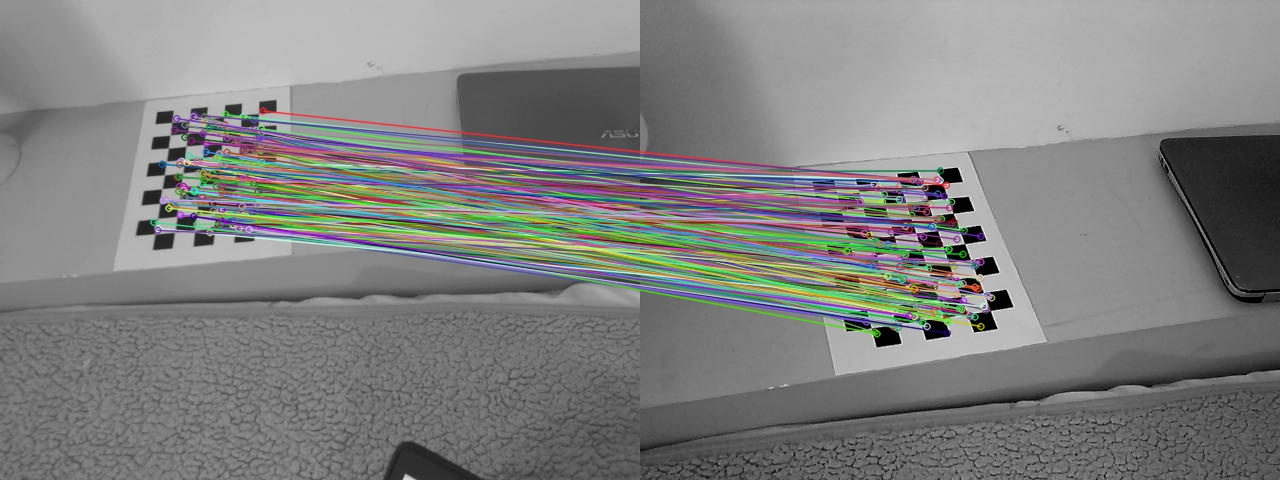
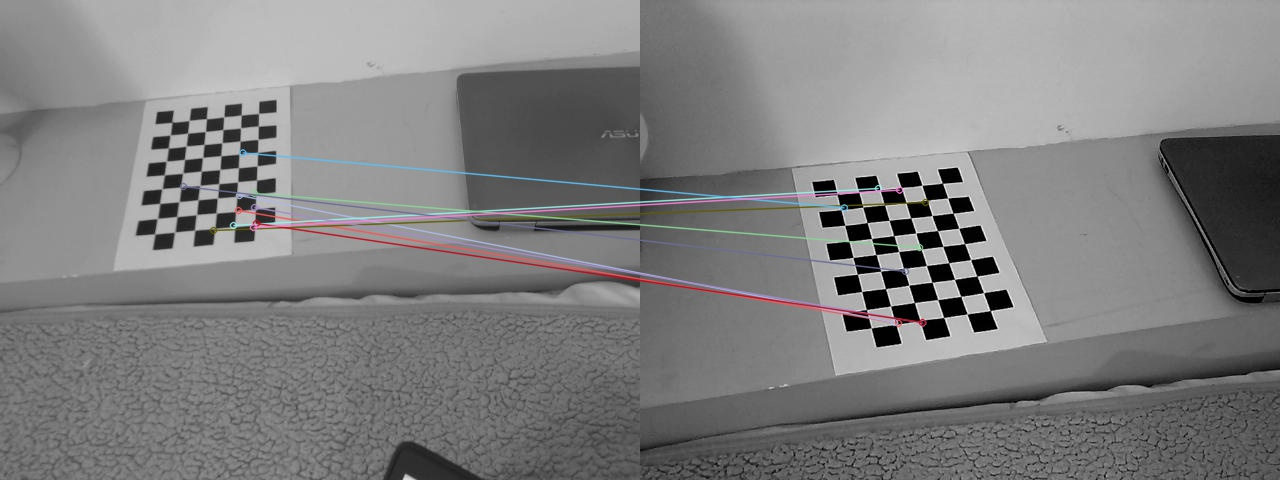
new algo fo Feature Matching ( file called FM )

Changed region(s): [[0.125, 0.2188, 0.7812, 0.7188]]

diff --git a/FM.py b/FM.py
@@ -1,0 +1,62 @@
+#!/usr/bin/python3
+# 2017.10.06 22:36:44 CST
+# 2017.10.06 23:18:25 CST
+
+"""
+Environment:
+    OpenCV 3.3  + Python 3.5
+
+Aims:
+(1) Detect sift keypoints and compute descriptors.
+(2) Use flannmatcher to match descriptors.
+(3) Do ratio test and output the matched pairs coordinates, draw some pairs in purple .
+(4) Draw matched pairs in blue color, singlepoints in red.
+"""
+import numpy as np
+import cv2
+from matplotlib import pyplot as plt
+
+
+## Create SIFT object
+sift = cv2.xfeatures2d.SIFT_create()
+
+## Create flann matcher
+FLANN_INDEX_KDTREE = 1  # bug: flann enums are missing
+flann_params = dict(algorithm = FLANN_INDEX_KDTREE, trees = 5)
+#matcher = cv2.FlannBasedMatcher_create()
+matcher = cv2.FlannBasedMatcher(flann_params, {})
+
+## Detect and compute
+img1 = cv2.imread('0cam1.jpeg')
+gray1 = cv2.cvtColor(img1, cv2.COLOR_BGR2GRAY)
+kpts1, descs1 = sift.detectAndCompute(gray1,None)
+
+## As up
+img2 = cv2.imread('0cam2.jpeg')
+gray2 = cv2.cvtColor(img2, cv2.COLOR_BGR2GRAY)
+kpts2, descs2 = sift.detectAndCompute(gray2,None)
+
+## Ratio test
+matches = matcher.knnMatch(descs1, descs2, 2)
+matchesMask = [[0,0] for i in range(len(matches))]
+for i, (m1,m2) in enumerate(matches):
+    if m1.distance < 0.7 * m2.distance:
+        matchesMask[i] = [1,0]
+        ## Notice: How to get the index
+        pt1 = kpts1[m1.queryIdx].pt
+        pt2 = kpts2[m1.trainIdx].pt
+        print(i, pt1,pt2 )
+        if i % 5 ==0:
+            ## Draw pairs in purple, to make sure the result is ok
+            cv2.circle(img1, (int(pt1[0]),int(pt1[1])), 5, (255,0,255), -1)
+            cv2.circle(img2, (int(pt2[0]),int(pt2[1])), 5, (255,0,255), -1)
+
+
+## Draw match in blue, error in red
+draw_params = dict(matchColor = (255, 0,0),
+                   singlePointColor = (0,0,255),
+                   matchesMask = matchesMask,
+                   flags = 0)
+
+res = cv2.drawMatchesKnn(img1,kpts1,img2,kpts2,matches,None,**draw_params)
+cv2.imshow("Result", res);cv2.waitKey();cv2.destroyAllWindows()

diff --git a/featureMatching.py b/featureMatching.py
@@ -24,7 +24,7 @@ bf = cv2.BFMatcher(cv2.NORM_HAMMING, crossCheck=True)
 matches = bf.match(des1,des2)
 
 # Sort them in the order of their distance.
-matches = sorted(matches, key = lambda x:x.distance)
+matches = sorted(matches, key = lambda x:x.distance, reverse=True)
 l = []
 r = []
 #l.append(kp1[matches[0].trainIdx].pt)
@@ -39,6 +39,6 @@ print(np.transpose(l).shape)
 #print(l)
 
 # Draw first 10 matches.
-img3 = cv2.drawMatches(img1,kp1,img2,kp2,matches ,None, flags=2)
+img3 = cv2.drawMatches(img1,kp1,img2,kp2,matches[:5] ,None, flags=2)
 cv2.imwrite('sift_featureMatched.jpg',img3)
 plt.imshow(img3),plt.show()

diff --git a/BFmatcher.py b/BFmatcher.py
@@ -1,0 +1,17 @@
+import numpy as np
+import cv2
+import matplotlib.pyplot as plt
+
+img1 = cv2.imread('0cam1.jpeg',0)          # queryImage
+img2 = cv2.imread('0cam2.jpeg',0)
+
+orb = cv2.ORB_create()
+kp1, des1 = orb.detectAndCompute(img1,None)
+kp2, des2 = orb.detectAndCompute(img2,None)
+bf = cv2.BFMatcher(cv2.NORM_HAMMING, crossCheck=True)
+matches = bf.match(des1,des2)
+matches = sorted(matches, key = lambda x:x.distance)
+img3 = cv2.drawMatches(img1,kp1,img2,kp2,matches[:10],None, flags=2)
+plt.imshow(img3)
+cv2.imwrite('sift_featureMatched.jpg',img3)
+plt.show()

diff --git a/Project.py b/Project.py
@@ -112,7 +112,7 @@ def GetMatchedFeatures(img1,img2):
     matches = sorted(matches, key = lambda x:x.distance)
     
     # Draw first 10 matches.
-    #img3 = cv2.drawMatches(img1,kp1,img2,kp2,matches ,None, flags=2)
+    img3 = cv2.drawMatches(img1,kp1,img2,kp2,matches ,None, flags=2)
     return kp1,kp2
 
 def GetMatchedFeatures(img1, img2):

diff --git a/TakePhotoFrom2Camera.py b/TakePhotoFrom2Camera.py
@@ -17,7 +17,7 @@ while(True):
     
     if cv2.waitKey(1) & 0xFF == ord('t'):
         print ("Image saved")
-        im = Image.fromarray(gray)q
+        im = Image.fromarray(gray)
         im.save(str(counter)+"cam1.jpeg")
         im2 = Image.fromarray(gray2)
         im2.save(str(counter)+"cam2.jpeg")
